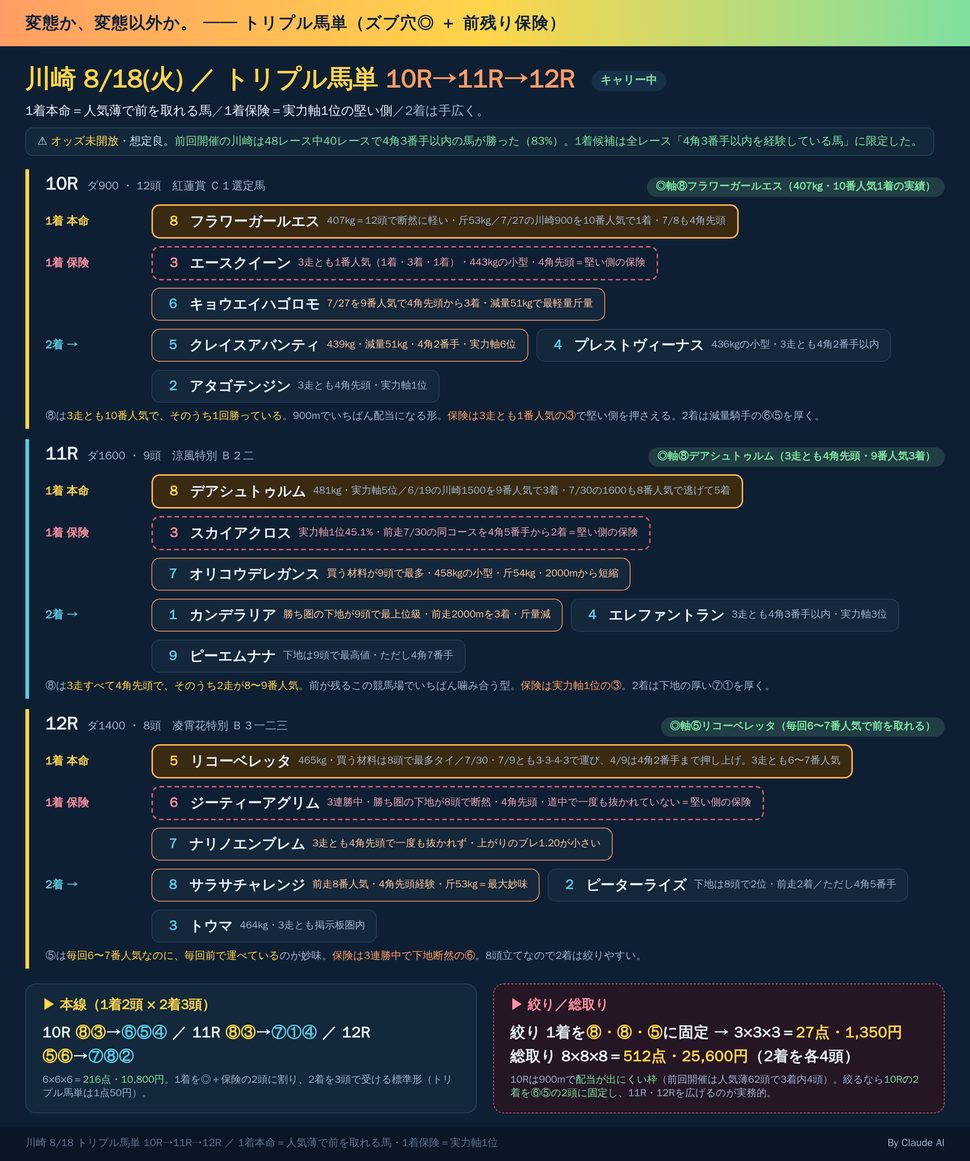
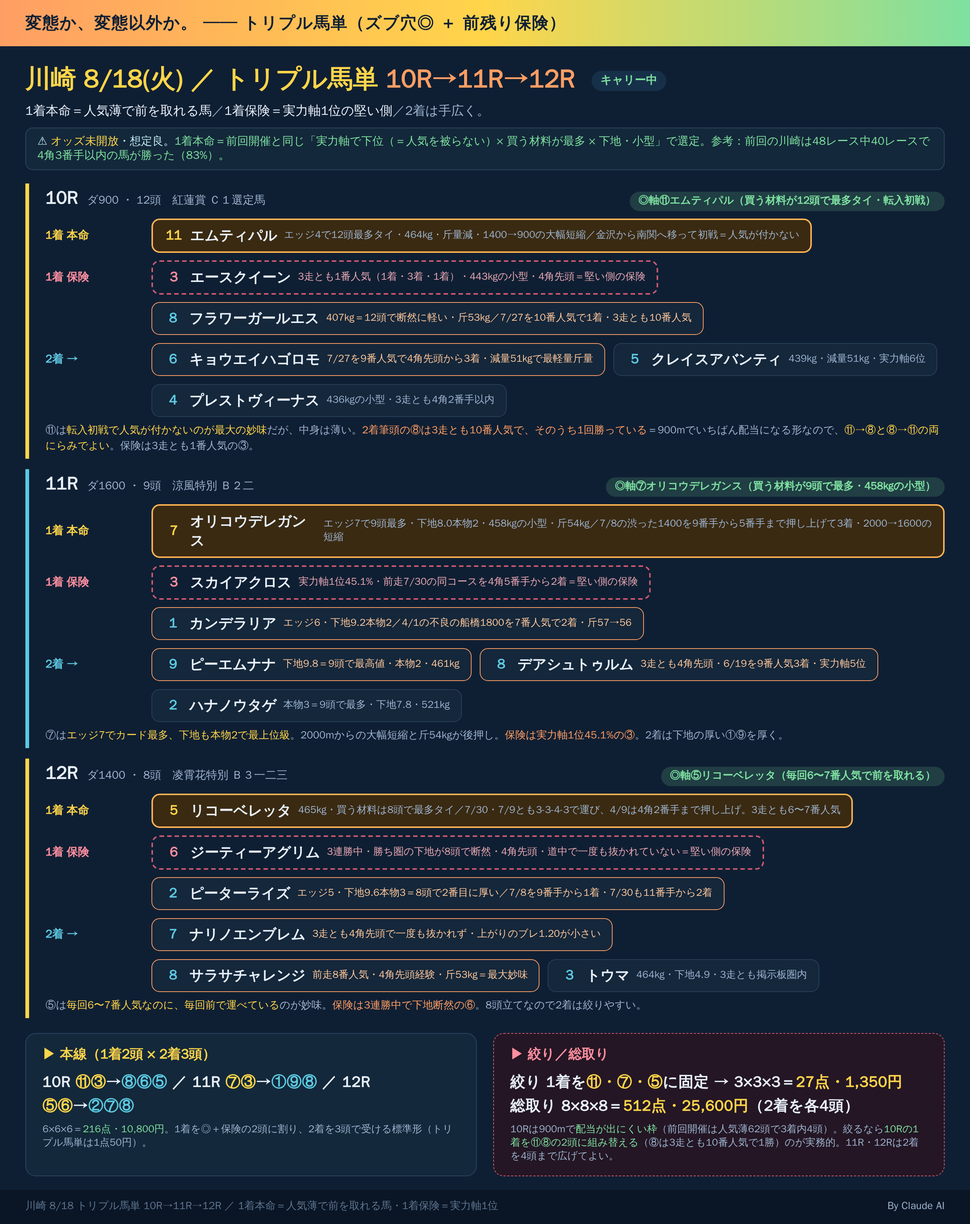
notes: 8/18 川崎 足切りを撤回し前回と同一基準で再選定（1-5R/6-12R/トリプル馬単）
Claude-Session: https://claude.ai/code/session_01RoHscZkr96FNaxQWvUqgEw

diff --git a/notes/live/2026-08-18/kawasaki_6_12.html b/notes/live/2026-08-18/kawasaki_6_12.html
@@ -38,69 +38,70 @@
           padding:15px 22px; color:#fff; font-size:19px; font-weight:800; }
   .foot .y{color:#ffd83b;} .foot .c{color:#8fe3ff;}
   .sig { text-align:right; color:#dbeaf7; font-size:17px; font-weight:800; margin-top:16px; }
-</style></head><body>
+</style></head>
+<body>
 <div class="card"><div class="rays"></div><div class="inner">
   <div class="kicker">変態か、変態以外か。 ── AIズブ穴</div>
   <div class="titleline">
     <div class="title">8/18(火) 川崎 6R〜12R</div>
     <div class="bdg">ズブ穴</div>
   </div>
-  <div class="lead">後半7鞍。◎は全レース<span class="c">4角3番手以内を経験している馬</span>から選んだ。
-  勝負は<span class="y">7R・9R・10R</span>。</div>
+  <div class="lead">後半7鞍。◎は<span class="y">買う材料がいちばん多くて、人気にならない馬</span>から入る。
+  勝負は<span class="y">7R・8R・9R・11R</span>。</div>
 
   <div class="cols"><div class="cR">R</div><div class="cH">◎ 本命</div><div class="cA">○ 相手</div><div class="cM">メモ</div></div>
 
   <div class="row">
     <div class="rN"><div class="n">6R</div><div class="d">ダ1500・8頭</div></div>
-    <div class="hm"><span class="mk">◎</span><span class="nm">①バースバイパー</span></div>
-    <div class="at"><span class="mk2">○</span><span class="nm2">⑦ヤマトリュウタン</span></div>
-    <div class="memo">◎①は6/19の川崎900を<b>4角先頭のまま1着</b>、7/6の1400も<b>4角先頭で2着</b>。<b>前を取れば崩れない馬</b>です。前走は9番人気で8着でしたが、その凡走で<b>値段が付いた</b>のが今回。渋った川崎を<b>基準より0.7秒遅い上がりで3着内</b>に来た走りが2回あり、力の要る流れでも残せる。○⑦は<b>454kgの小型</b>で1600mから<b>距離が縮む</b>。5/15の川崎1400を<b>4角3番手から2着</b>。ヒモ⑧⑤</div>
+    <div class="hm"><span class="mk">◎</span><span class="nm">⑥オリジン</span></div>
+    <div class="at"><span class="mk2">○</span><span class="nm2">①バースバイパー</span></div>
+    <div class="memo">◎⑥は7/27の川崎1400を<b>7番手から4番手まで押し上げて1着</b>。<b>2走とも道中で一度も抜かれていない</b>。<b>457kgの小型</b>で、1400mから1500mへ<b>距離が延びて持続力が生きる</b>。<b>買う材料の数はこの8頭で最多。</b>○①は6/19の川崎900を<b>4角先頭のまま1着</b>、7/6の1400も<b>4角先頭で2着</b>。渋った川崎を<b>基準より0.7秒遅い上がりで3着内</b>に来た走りが2回。前走は9番人気8着で、<b>その凡走で値段が付いた</b>。ヒモ⑦②</div>
   </div>
 
   <div class="row">
     <div class="rN"><div class="n">7R</div><div class="d">ダ1400・11頭</div></div>
     <div class="hm"><span class="fire">🔥</span><span class="mk">◎</span><span class="nm">③スウィートドリーム</span></div>
     <div class="at"><span class="mk2">○</span><span class="nm2">⑧ビップジェシー</span></div>
-    <div class="memo">◎③は前走7/30の川崎1400が強烈で、<b>9番人気で11番手から4角先頭まで一気に押し上げて5着</b>。<b>454kgの小型</b>で、勝ち圏の時計を出した走りが<b>2回</b>あり、この11頭では上位。<b>前に行く脚があるのに人気が付いていない</b>のがそのままの妙味です。○⑧は勝ち圏の下地が<b>この11頭で最上位</b>、<b>441kgの小型</b>。7/29の川崎1400を<b>4角先頭のまま1着</b>。ヒモ①②</div>
+    <div class="memo">◎③は前走7/30の川崎1400が強烈で、<b>9番人気で11番手から4角先頭まで一気に押し上げて5着</b>。<b>454kgの小型</b>で、勝ち圏の時計を出した走りが<b>2回</b>あり、この11頭では上位。<b>前に行く脚があるのに人気が付いていない</b>のがそのままの妙味です。○⑧は<b>勝ち圏の下地がこの11頭で最上位</b>、<b>441kgの小型</b>。7/29の川崎1400を<b>4角先頭のまま1着</b>。ヒモ④①</div>
   </div>
 
   <div class="row">
     <div class="rN"><div class="n">8R</div><div class="d">ダ900・12頭</div></div>
-    <div class="hm"><span class="mk">◎</span><span class="nm">③ラッキーカムカム</span></div>
-    <div class="at"><span class="mk2">○</span><span class="nm2">⑨ゴーゴーダンサー</span></div>
-    <div class="memo">◎③は7/24の大井1000を<b>12番人気で4角先頭のまま3着</b>。<b>人気がなくても前を取って残せる</b>のがこの馬の形で、<b>過去3走とも道中で一度も抜かれていない</b>。1400mから<b>一気に900mへ縮む</b>のも良い。○⑨は<b>415kgの小型</b>で<b>減量騎手の52kg</b>。7/31・7/10とも<b>4角先頭</b>まで行っており、この距離なら残り目がある。ヒモ⑫⑤　<b>※900mは配当が出にくい枠。薄めに。</b></div>
+    <div class="hm"><span class="fire">🔥</span><span class="mk">◎</span><span class="nm">⑫マイカグラ</span></div>
+    <div class="at"><span class="mk2">○</span><span class="nm2">③ラッキーカムカム</span></div>
+    <div class="memo">◎⑫は<b>425kgの小型</b>。5/29の浦和1400を<b>10番人気で1着</b>、8/7の浦和1400も<b>6番人気で3着</b>。7/10の川崎900では<b>上がり36.7</b>を使っており、<b>この12頭で終いは断然</b>。<b>買う材料の数もカード最多。</b>○③は7/24の大井1000を<b>12番人気で4角先頭のまま3着</b>。<b>人気がなくても前を取って残せる形</b>で、<b>3走とも道中で一度も抜かれていない</b>。1400mから<b>一気に900mへ縮む</b>。ヒモ⑪⑧</div>
   </div>
 
   <div class="row">
     <div class="rN"><div class="n">9R</div><div class="d">ダ1500・9頭</div></div>
-    <div class="hm"><span class="fire">🔥</span><span class="mk">◎</span><span class="nm">①エクセルブラック</span></div>
-    <div class="at"><span class="mk2">○</span><span class="nm2">⑧シンボルザサン</span></div>
-    <div class="memo">◎①は6/15の川崎1600を<b>4角2番手から1着</b>、6/22の浦和1500も<b>4番手から2番手まで押し上げて2着</b>。<b>449kgの小型</b>で、渋った川崎を<b>基準より0.8秒遅い上がりで3着内</b>に来た走りが2回。前走は3番人気で12着と大きく負けており、<b>そこで人気を落とすのが狙い目</b>です。○⑧は<b>439kgの小型</b>で、前走7/30の川崎1400を<b>8番人気で4角5番手まで押し上げて1着</b>。<b>この距離帯で一発がある。</b>ヒモ⑤③</div>
+    <div class="hm"><span class="fire">🔥</span><span class="mk">◎</span><span class="nm">⑥レイニングキング</span></div>
+    <div class="at"><span class="mk2">○</span><span class="nm2">②ブランディストック</span></div>
+    <div class="memo">◎⑥は1/19の船橋1500を<b>9番人気で3着</b>、そのときの<b>上がり38.0はこの9頭で断然の数字</b>。前走も<b>9番人気で10番手から7番手まで押し上げて6着</b>。<b>勝ち圏の時計を出した中身はこのカード最高値</b>で、470kg。○②は7/30の川崎1500を<b>13番手から4着</b>。<b>渋った1500を2回とも4番手まで押し上げて</b>おり、<b>3走とも道中で一度も抜かれていない</b>。488kg。ヒモ⑤⑧</div>
   </div>
 
   <div class="row">
     <div class="rN"><div class="n">10R</div><div class="d">ダ900・12頭</div></div>
-    <div class="hm"><span class="fire">🔥</span><span class="mk">◎</span><span class="nm">⑧フラワーガールエス</span></div>
-    <div class="at"><span class="mk2">○</span><span class="nm2">⑥キョウエイハゴロモ</span></div>
-    <div class="memo">◎⑧は<b>407kgとこの12頭で断然に軽い</b>。7/27の川崎900を<b>10番人気で1着</b>、7/8も<b>4角先頭</b>まで行っている。<b>3走とも10番人気で、そのうち1回勝っている</b>という、この距離でいちばん配当になる形です。<b>斤量53kg</b>も利く。○⑥は7/27の川崎900を<b>9番人気で4角先頭から3着</b>。<b>減量騎手で51kg</b>とこの12頭で最も軽い斤量。ヒモ③④</div>
+    <div class="hm"><span class="mk">◎</span><span class="nm">⑪エムティパル</span></div>
+    <div class="at"><span class="mk2">○</span><span class="nm2">⑧フラワーガールエス</span></div>
+    <div class="memo">◎⑪は<b>金沢から南関へ移って初戦</b>。6/22の金沢1400は<b>4角5番手で6着</b>と、前に行けています。1400mから<b>一気に900mへ縮み、斤量も軽くなる</b>。464kg。<b>転入初戦で人気が付かない</b>のが最大の妙味。○⑧は<b>407kgとこの12頭で断然に軽い</b>。7/27の川崎900を<b>10番人気で1着</b>、7/8も<b>4角先頭</b>まで行っている。<b>3走とも10番人気で、そのうち1回勝っている。</b>ヒモ⑥③　<b>※900mは配当が出にくい枠。薄めに。</b></div>
   </div>
 
   <div class="row">
     <div class="rN"><div class="n">11R</div><div class="d">ダ1600・9頭</div></div>
-    <div class="hm"><span class="mk">◎</span><span class="nm">⑧デアシュトゥルム</span></div>
-    <div class="at"><span class="mk2">○</span><span class="nm2">⑦オリコウデレガンス</span></div>
-    <div class="memo">◎⑧は<b>3走とも4角先頭</b>。6/19の川崎1500を<b>9番人気で3着</b>、前走7/30の川崎1600も<b>8番人気で逃げて5着</b>。渋った流れを<b>基準より1.1秒遅い上がりで3着内</b>に来ており、<b>人気薄で前に行って粘る</b>のがこの馬の型です。○⑦は<b>458kgの小型</b>で<b>斤量54kg</b>、2000mから<b>距離が縮む</b>。勝ち圏の時計を出した走りが2回あり、<b>買う材料はこの9頭でいちばん多い。</b>ヒモ①④</div>
+    <div class="hm"><span class="fire">🔥</span><span class="mk">◎</span><span class="nm">⑦オリコウデレガンス</span></div>
+    <div class="at"><span class="mk2">○</span><span class="nm2">①カンデラリア</span></div>
+    <div class="memo">◎⑦は<b>458kgの小型</b>で<b>斤量54kg</b>。7/8の<b>渋った川崎1400を9番手から5番手まで押し上げて3着</b>。2000mから<b>一気に1600mへ縮む</b>のも良く、勝ち圏の時計を出した走りが2回。<b>買う材料の数はこの9頭で最多。</b>○①は4/1の<b>不良馬場の船橋1800を7番人気で、9番手から5番手まで押し上げて2着</b>。5/15の川崎2000も2着で、<b>上がり39.1は上位</b>。<b>斤量が57→56に軽くなり</b>、2000mから<b>距離が縮む</b>。501kg。ヒモ⑨②</div>
   </div>
 
   <div class="row">
     <div class="rN"><div class="n">12R</div><div class="d">ダ1400・8頭</div></div>
     <div class="hm"><span class="mk">◎</span><span class="nm">⑤リコーベレッタ</span></div>
-    <div class="at"><span class="mk2">○</span><span class="nm2">⑦ナリノエンブレム</span></div>
-    <div class="memo">◎⑤は7/30・7/9とも<b>3-3-4-3で運んで7着・4着</b>、4/9は<b>4角2番手まで押し上げて4着</b>。<b>3走とも6〜7番人気で、毎回前で運べている</b>。買う材料の数はこの8頭で最多タイ、<b>465kg</b>で渋った馬場にも向く。○⑦は<b>3走とも4角先頭のまま、一度も抜かれていない</b>。6/18の川崎1400は<b>逃げ切って2着</b>。<b>上がりのブレが1.20と小さく</b>、馬場が変わっても脚が落ちない。ヒモ⑥②</div>
+    <div class="at"><span class="mk2">○</span><span class="nm2">②ピーターライズ</span></div>
+    <div class="memo">◎⑤は7/30・7/9とも<b>3-3-4-3で運んで7着・4着</b>、4/9は<b>4角2番手まで押し上げて4着</b>。<b>3走とも6〜7番人気で、毎回前で運べている</b>のが妙味。<b>買う材料の数はこの8頭で最多タイ</b>、465kgで渋った馬場にも向く。○②は7/8の川崎1400を<b>9番手から5番手まで押し上げて1着</b>、7/30も<b>11番手から2着</b>。<b>勝ち圏の時計を出した走りが3回</b>で、この8頭では2番目に厚い。497kg。ヒモ⑥⑦</div>
   </div>
 
-  <div class="foot">🔑 <span class="y">10R⑧フラワーガールエス</span>と<span class="y">7R③スウィートドリーム</span>、<span class="y">9R①エクセルブラック</span>。
-  <span class="c">3頭とも前に行けるのに、人気にはなっていない。</span></div>
+  <div class="foot">🔑 <span class="y">8R⑫マイカグラ</span>と<span class="y">11R⑦オリコウデレガンス</span>、<span class="y">9R⑥レイニングキング</span>。
+  <span class="c">3頭とも買う材料が揃っているのに、人気にはなっていない。</span></div>
   <div class="sig">By Claude AI</div>
 </div></div>
 </body></html>

diff --git a/notes/live/2026-08-18/kawasaki_triple_umatan.html b/notes/live/2026-08-18/kawasaki_triple_umatan.html
@@ -45,35 +45,35 @@
   <div class="head">
     <div class="title">川崎 8/18(火) ／ トリプル馬単 <span class="r">10R→11R→12R</span> <span class="badge">キャリー中</span></div>
     <div class="sub"><b>1着本命＝人気薄で前を取れる馬</b>／<b>1着保険＝実力軸1位の堅い側</b>／2着は手広く。</div>
-    <div class="bias">⚠ <b>オッズ未開放</b>・想定良。<span class="g">前回開催の川崎は48レース中40レースで4角3番手以内の馬が勝った（83%）。1着候補は全レース「4角3番手以内を経験している馬」に限定した。</span></div>
+    <div class="bias">⚠ <b>オッズ未開放</b>・想定良。<span class="g">1着本命＝前回開催と同じ「実力軸で下位（＝人気を被らない）× 買う材料が最多 × 下地・小型」で選定。参考：前回の川崎は48レース中40レースで4角3番手以内の馬が勝った（83%）。</span></div>
   </div>
 
   <div class="race r10">
-    <div class="rh"><span class="rn">10R</span><span class="rd">ダ900 ・ 12頭　紅蓮賞 Ｃ１選定馬</span><span class="rbadge">◎軸⑧フラワーガールエス（407kg・10番人気1着の実績）</span></div>
+    <div class="rh"><span class="rn">10R</span><span class="rd">ダ900 ・ 12頭　紅蓮賞 Ｃ１選定馬</span><span class="rbadge">◎軸⑪エムティパル（買う材料が12頭で最多タイ・転入初戦）</span></div>
     <div class="line"><div class="tag"><span class="t1">1着 本命</span></div><div class="chips">
-      <div class="chip honmei"><span class="no">8</span><span class="nm">フラワーガールエス</span><span class="meta">407kg＝12頭で断然に軽い・斤53kg／7/27の川崎900を<b>10番人気で1着</b>・7/8も4角先頭</span></div></div></div>
+      <div class="chip honmei"><span class="no">11</span><span class="nm">エムティパル</span><span class="meta">エッジ4で12頭最多タイ・464kg・斤量減・1400→900の大幅短縮／<b>金沢から南関へ移って初戦＝人気が付かない</b></span></div></div></div>
     <div class="line"><div class="tag"><span class="t2">1着 保険</span></div><div class="chips">
       <div class="chip hoken"><span class="no">3</span><span class="nm">エースクイーン</span><span class="meta">3走とも1番人気（1着・3着・1着）・443kgの小型・4角先頭＝堅い側の保険</span></div></div></div>
     <div class="line"><div class="tag"><span class="t3">2着 →</span></div><div class="chips">
+      <div class="chip aite ana"><span class="no">8</span><span class="nm">フラワーガールエス</span><span class="meta">407kg＝12頭で断然に軽い・斤53kg／7/27を<b>10番人気で1着</b>・3走とも10番人気</span></div>
       <div class="chip aite ana"><span class="no">6</span><span class="nm">キョウエイハゴロモ</span><span class="meta">7/27を9番人気で4角先頭から3着・減量51kgで最軽量斤量</span></div>
-      <div class="chip aite ana"><span class="no">5</span><span class="nm">クレイスアバンティ</span><span class="meta">439kg・減量51kg・4角2番手・実力軸6位</span></div>
-      <div class="chip aite"><span class="no">4</span><span class="nm">プレストヴィーナス</span><span class="meta">436kgの小型・3走とも4角2番手以内</span></div>
-      <div class="chip aite"><span class="no">2</span><span class="nm">アタゴテンジン</span><span class="meta">3走とも4角先頭・実力軸1位</span></div></div></div>
-    <div class="rc">⑧は<b>3走とも10番人気で、そのうち1回勝っている</b>。900mでいちばん配当になる形。<span class="o">保険は3走とも1番人気の③</span>で堅い側を押さえる。2着は減量騎手の⑥⑤を厚く。</div>
+      <div class="chip aite"><span class="no">5</span><span class="nm">クレイスアバンティ</span><span class="meta">439kg・減量51kg・実力軸6位</span></div>
+      <div class="chip aite"><span class="no">4</span><span class="nm">プレストヴィーナス</span><span class="meta">436kgの小型・3走とも4角2番手以内</span></div></div></div>
+    <div class="rc">⑪は<b>転入初戦で人気が付かないのが最大の妙味</b>だが、中身は薄い。<span class="o">2着筆頭の⑧は3走とも10番人気で、そのうち1回勝っている</span>＝900mでいちばん配当になる形なので、<b>⑪→⑧と⑧→⑪の両にらみでよい</b>。保険は3走とも1番人気の③。</div>
   </div>
 
   <div class="race r11">
-    <div class="rh"><span class="rn">11R</span><span class="rd">ダ1600 ・ 9頭　涼風特別 Ｂ２二</span><span class="rbadge">◎軸⑧デアシュトゥルム（3走とも4角先頭・9番人気3着）</span></div>
+    <div class="rh"><span class="rn">11R</span><span class="rd">ダ1600 ・ 9頭　涼風特別 Ｂ２二</span><span class="rbadge">◎軸⑦オリコウデレガンス（買う材料が9頭で最多・458kgの小型）</span></div>
     <div class="line"><div class="tag"><span class="t1">1着 本命</span></div><div class="chips">
-      <div class="chip honmei"><span class="no">8</span><span class="nm">デアシュトゥルム</span><span class="meta">481kg・実力軸5位／6/19の川崎1500を<b>9番人気で3着</b>・7/30の1600も8番人気で逃げて5着</span></div></div></div>
+      <div class="chip honmei"><span class="no">7</span><span class="nm">オリコウデレガンス</span><span class="meta">エッジ7で9頭最多・下地8.0本物2・458kgの小型・斤54kg／7/8の渋った1400を9番手から5番手まで押し上げて3着・2000→1600の短縮</span></div></div></div>
     <div class="line"><div class="tag"><span class="t2">1着 保険</span></div><div class="chips">
       <div class="chip hoken"><span class="no">3</span><span class="nm">スカイアクロス</span><span class="meta">実力軸1位45.1%・前走7/30の同コースを4角5番手から2着＝堅い側の保険</span></div></div></div>
     <div class="line"><div class="tag"><span class="t3">2着 →</span></div><div class="chips">
-      <div class="chip aite ana"><span class="no">7</span><span class="nm">オリコウデレガンス</span><span class="meta">買う材料が9頭で最多・458kgの小型・斤54kg・2000mから短縮</span></div>
-      <div class="chip aite ana"><span class="no">1</span><span class="nm">カンデラリア</span><span class="meta">勝ち圏の下地が9頭で最上位級・前走2000mを3着・斤量減</span></div>
-      <div class="chip aite"><span class="no">4</span><span class="nm">エレファントラン</span><span class="meta">3走とも4角3番手以内・実力軸3位</span></div>
-      <div class="chip aite"><span class="no">9</span><span class="nm">ピーエムナナ</span><span class="meta">下地は9頭で最高値・ただし4角7番手</span></div></div></div>
-    <div class="rc">⑧は<b>3走すべて4角先頭で、そのうち2走が8〜9番人気</b>。前が残るこの競馬場でいちばん噛み合う型。<span class="o">保険は実力軸1位の③</span>。2着は下地の厚い⑦①を厚く。</div>
+      <div class="chip aite ana"><span class="no">1</span><span class="nm">カンデラリア</span><span class="meta">エッジ6・下地9.2本物2／4/1の不良の船橋1800を<b>7番人気で2着</b>・斤57→56</span></div>
+      <div class="chip aite ana"><span class="no">9</span><span class="nm">ピーエムナナ</span><span class="meta">下地9.8＝<b>9頭で最高値</b>・本物2・461kg</span></div>
+      <div class="chip aite ana"><span class="no">8</span><span class="nm">デアシュトゥルム</span><span class="meta">3走とも4角先頭・6/19を9番人気3着・実力軸5位</span></div>
+      <div class="chip aite"><span class="no">2</span><span class="nm">ハナノウタゲ</span><span class="meta">本物3＝9頭で最多・下地7.8・521kg</span></div></div></div>
+    <div class="rc">⑦は<b>エッジ7でカード最多、下地も本物2で最上位級</b>。2000mからの大幅短縮と斤54kgが後押し。<span class="o">保険は実力軸1位45.1%の③</span>。2着は下地の厚い①⑨を厚く。</div>
   </div>
 
   <div class="race r12">
@@ -83,20 +83,20 @@
     <div class="line"><div class="tag"><span class="t2">1着 保険</span></div><div class="chips">
       <div class="chip hoken"><span class="no">6</span><span class="nm">ジーティーアグリム</span><span class="meta"><b>3連勝中</b>・勝ち圏の下地が8頭で断然・4角先頭・道中で一度も抜かれていない＝堅い側の保険</span></div></div></div>
     <div class="line"><div class="tag"><span class="t3">2着 →</span></div><div class="chips">
+      <div class="chip aite ana"><span class="no">2</span><span class="nm">ピーターライズ</span><span class="meta">エッジ5・下地9.6本物3＝8頭で2番目に厚い／7/8を9番手から1着・7/30も11番手から2着</span></div>
       <div class="chip aite ana"><span class="no">7</span><span class="nm">ナリノエンブレム</span><span class="meta">3走とも4角先頭で一度も抜かれず・上がりのブレ1.20が小さい</span></div>
       <div class="chip aite ana"><span class="no">8</span><span class="nm">サラサチャレンジ</span><span class="meta">前走8番人気・4角先頭経験・斤53kg＝最大妙味</span></div>
-      <div class="chip aite"><span class="no">2</span><span class="nm">ピーターライズ</span><span class="meta">下地は8頭で2位・前走2着／ただし4角5番手</span></div>
-      <div class="chip aite"><span class="no">3</span><span class="nm">トウマ</span><span class="meta">464kg・3走とも掲示板圏内</span></div></div></div>
+      <div class="chip aite"><span class="no">3</span><span class="nm">トウマ</span><span class="meta">464kg・下地4.9・3走とも掲示板圏内</span></div></div></div>
     <div class="rc">⑤は<b>毎回6〜7番人気なのに、毎回前で運べている</b>のが妙味。<span class="o">保険は3連勝中で下地断然の⑥</span>。8頭立てなので2着は絞りやすい。</div>
   </div>
 
   <div class="buys">
     <div class="buy hon"><div class="bt">▶ 本線（1着2頭 × 2着3頭）</div>
-      <div class="bl">10R <span class="a">⑧③</span>→<span class="s">⑥⑤④</span> ／ 11R <span class="a">⑧③</span>→<span class="s">⑦①④</span> ／ 12R <span class="a">⑤⑥</span>→<span class="s">⑦⑧②</span></div>
+      <div class="bl">10R <span class="a">⑪③</span>→<span class="s">⑧⑥⑤</span> ／ 11R <span class="a">⑦③</span>→<span class="s">①⑨⑧</span> ／ 12R <span class="a">⑤⑥</span>→<span class="s">②⑦⑧</span></div>
       <div class="bn">6×6×6＝<b>216点・10,800円</b>。1着を◎＋保険の2頭に割り、2着を3頭で受ける標準形（トリプル馬単は1点50円）。</div></div>
     <div class="buy hok"><div class="bt">▶ 絞り／総取り</div>
-      <div class="bl">絞り 1着を<span class="a">⑧・⑧・⑤</span>に固定 → 3×3×3＝<span class="a">27点・1,350円</span><br>総取り 8×8×8＝<span class="a">512点・25,600円</span>（2着を各4頭）</div>
-      <div class="bn">10Rは900mで<b>配当が出にくい枠</b>（前回開催は人気薄62頭で3着内4頭）。絞るなら<b>10Rの2着を⑥⑤の2頭に固定</b>し、11R・12Rを広げるのが実務的。</div></div>
+      <div class="bl">絞り 1着を<span class="a">⑪・⑦・⑤</span>に固定 → 3×3×3＝<span class="a">27点・1,350円</span><br>総取り 8×8×8＝<span class="a">512点・25,600円</span>（2着を各4頭）</div>
+      <div class="bn">10Rは900mで<b>配当が出にくい枠</b>（前回開催は人気薄62頭で3着内4頭）。絞るなら<b>10Rの1着を⑪⑧の2頭に組み替える</b>（⑧は3走とも10番人気で1勝）のが実務的。11R・12Rは2着を4頭まで広げてよい。</div></div>
   </div>
 
   <div class="foot"><span>川崎 8/18 トリプル馬単 10R→11R→12R ／ 1着本命＝人気薄で前を取れる馬・1着保険＝実力軸1位</span><span><b>By Claude AI</b></span></div>

diff --git a/notes/live/2026-08-18/kawasaki_1_5.html b/notes/live/2026-08-18/kawasaki_1_5.html
@@ -38,55 +38,56 @@
           padding:15px 22px; color:#fff; font-size:19px; font-weight:800; }
   .foot .y{color:#ffd83b;} .foot .c{color:#8fe3ff;}
   .sig { text-align:right; color:#dbeaf7; font-size:17px; font-weight:800; margin-top:16px; }
-</style></head><body>
+</style></head>
+<body>
 <div class="card"><div class="rays"></div><div class="inner">
   <div class="kicker">変態か、変態以外か。 ── AIズブ穴</div>
   <div class="titleline">
     <div class="title">8/18(火) 川崎 1R〜5R</div>
     <div class="bdg">ズブ穴</div>
   </div>
-  <div class="lead">川崎開幕。ここは<span class="c">4角3番手以内が3着内83%</span>という、前が残る競馬場。
-  ◎は<span class="y">前を取れる人気薄</span>から入る。勝負は<span class="y">2R・5R</span>。</div>
+  <div class="lead">川崎開幕。◎は<span class="y">買う材料がいちばん多くて、人気にならない馬</span>から入る。
+  勝負は<span class="y">2R・3R・5R</span>。</div>
 
   <div class="cols"><div class="cR">R</div><div class="cH">◎ 本命</div><div class="cA">○ 相手</div><div class="cM">メモ</div></div>
 
   <div class="row">
     <div class="rN"><div class="n">1R</div><div class="d">ダ1400・12頭</div></div>
-    <div class="hm"><span class="mk">◎</span><span class="nm">⑥シエルライズ</span></div>
+    <div class="hm"><span class="mk">◎</span><span class="nm">⑧コンテナヒーロー</span></div>
     <div class="at"><span class="mk2">○</span><span class="nm2">①ユノアール</span></div>
-    <div class="memo">◎⑥は1/14の名古屋1500を<b>4角先頭に立って1着</b>。中央で2戦して結果が出ず、<b>南関に替わって斤量も軽くなる</b>。1600mから<b>距離が縮む</b>のも良く、<b>過去3走とも道中で一度も抜かれていない</b>。この12頭では<b>いちばん人気が無いはず</b>で、値段は十分。○①は<b>389kgとこの12頭で断然に軽い</b>。6/19の渋った川崎1400を<b>7番人気で3着</b>、そのときの上がりは<b>基準より1.0秒遅い中での3着</b>＝力の要る馬場で残せる。<b>減量騎手で53kg。</b>ヒモ⑫⑤</div>
+    <div class="memo">◎⑧は<b>中央で1800mを4戦して南関へ</b>。5/30の京都1800では<b>12番手から4番手まで押し上げて</b>おり、脚は使えています。<b>1800mから一気に1400mへ縮み、斤量も57→56と軽くなる</b>。486kg。<b>買う材料の数はこの12頭で最多</b>で、転入初戦なので<b>人気は付かない</b>。○①は<b>389kgとこの12頭で断然に軽い</b>。6/19の<b>渋った川崎1400を7番人気で3着</b>、そのときの上がりは<b>基準より1.0秒遅い中での3着</b>＝力の要る馬場で残せる。<b>減量騎手で53kg。</b>ヒモ⑫⑥</div>
   </div>
 
   <div class="row">
     <div class="rN"><div class="n">2R</div><div class="d">ダ1400・12頭</div></div>
-    <div class="hm"><span class="fire">🔥</span><span class="mk">◎</span><span class="nm">③プリンセスサミット</span></div>
-    <div class="at"><span class="mk2">○</span><span class="nm2">⑫ピサンザプラ</span></div>
-    <div class="memo">◎③は3/3の川崎1400を<b>4角先頭のまま2着</b>、2/6も<b>4角先頭</b>。<b>この距離では前を取れる馬</b>です。前走は<b>900mで1番人気に推されて10着</b>と大敗しましたが、<b>短すぎただけ</b>。その凡走で<b>値段が付いた</b>のが今回の妙味。<b>減量騎手に乗り替わって斤量53kg、渋った馬場に向く血統。</b>○⑫は7/9の川崎1400を<b>4角先頭のまま4着</b>、7/27も<b>2-2-2-2で5着</b>。<b>上がりのブレが1.30とこの12頭で最小級</b>で、馬場が変わっても脚が落ちない。ヒモ④⑨</div>
+    <div class="hm"><span class="fire">🔥</span><span class="mk">◎</span><span class="nm">④ユウユウカツサンド</span></div>
+    <div class="at"><span class="mk2">○</span><span class="nm2">③プリンセスサミット</span></div>
+    <div class="memo">◎④は<b>405kgとこの12頭で断然に軽い</b>。7/9の川崎1400を<b>9番人気で3着</b>、6/18の<b>重馬場も11番人気で3着</b>。渋った川崎を<b>基準より0.4秒遅い上がりで3着</b>に来ており、力の要る流れでこそ生きる。<b>毎回2桁人気に近い評価で、毎回掲示板に来ている</b>のがそのままの妙味です。○③は3/3の川崎1400を<b>4角先頭のまま2着</b>。前走は<b>900mで1番人気に推されて10着</b>と大敗しましたが、<b>短すぎただけ</b>。その凡走で<b>値段が付いた</b>。<b>減量騎手に乗り替わって53kg、渋った馬場に向く血統。</b>ヒモ⑦⑫</div>
   </div>
 
   <div class="row">
     <div class="rN"><div class="n">3R</div><div class="d">ダ900・12頭</div></div>
-    <div class="hm"><span class="mk">◎</span><span class="nm">①ブルーグリッター</span></div>
-    <div class="at"><span class="mk2">○</span><span class="nm2">②カナサンドー</span></div>
-    <div class="memo">◎①は<b>8/11の浦和800を7番人気で2着</b>。<b>4角2番手</b>から粘っての好走で、そのときの上がりは<b>基準より1.0秒遅い中での2着</b>＝短距離の消耗戦を残せる形。<b>中6日</b>で状態が続いている。○②は<b>396kgとこの12頭で最軽量</b>。4/9の渋った川崎900を<b>7番人気で2着</b>、<b>上がりのブレは0.40でカード最小</b>＝どんな馬場でも同じ脚を使う。<b>4角3番手</b>で運べる。ヒモ⑥⑪　<b>※900mは配当が出にくい枠。ここは薄めに。</b></div>
+    <div class="hm"><span class="fire">🔥</span><span class="mk">◎</span><span class="nm">⑥ジーティーケリー</span></div>
+    <div class="at"><span class="mk2">○</span><span class="nm2">⑫ロワン</span></div>
+    <div class="memo">◎⑥は<b>413kgの小型</b>。6/28の<b>不良馬場の船橋1500を4角4番手のまま1着</b>、6/1も<b>10番人気で3着</b>。7/10の川崎1400は<b>9番手から6番手まで押し上げて3着</b>で、<b>上がり40.1はこの12頭で最上位級</b>。1500mから<b>一気に900mへ縮む</b>。<b>買う材料の数はこのカード全体で最多。</b>○⑫は5/14の川崎900を<b>6番人気で1着</b>。7/9・6/17とも<b>上がり37秒台</b>で、この距離の終いは確か。<b>427kgの小型。</b>ヒモ⑦①</div>
   </div>
 
   <div class="row">
     <div class="rN"><div class="n">4R</div><div class="d">ダ1400・10頭</div></div>
     <div class="hm"><span class="mk">◎</span><span class="nm">⑥ユルディズ</span></div>
     <div class="at"><span class="mk2">○</span><span class="nm2">②シナノマルス</span></div>
-    <div class="memo">◎⑥は<b>402kgとこの10頭で最軽量</b>。7/6の<b>渋った川崎1400を4角3番手から3着</b>、そのときの上がりは<b>基準より1.2秒遅い中での3着</b>で、力の要る馬場でこそ生きる。6/19の900mでは<b>4角2番手</b>まで上げており、<b>前を取れる</b>。1600mから<b>距離が縮む</b>のも良い。○②は<b>409kgの小型</b>で<b>減量騎手の52kg</b>。7/10の川崎900を<b>4角3番手から3着</b>。<b>この10頭でいちばん人気が無いはず。</b>ヒモ⑤③</div>
+    <div class="memo">◎⑥は<b>402kgとこの10頭で最軽量</b>。7/6の<b>渋った川崎1400を4角3番手から3着</b>、そのときの上がりは<b>基準より1.2秒遅い中での3着</b>で、力の要る馬場でこそ生きる。6/19の900mでは<b>4角2番手</b>まで上げており、<b>前を取れる</b>。1600mから<b>距離が縮む</b>のも良い。○②は<b>409kgの小型</b>で<b>減量騎手の52kg</b>。7/10の川崎900を<b>4角3番手から3着</b>。<b>この10頭でいちばん人気が無いはず。</b>ヒモ①⑦</div>
   </div>
 
   <div class="row">
     <div class="rN"><div class="n">5R</div><div class="d">ダ1400・11頭</div></div>
-    <div class="hm"><span class="fire">🔥</span><span class="mk">◎</span><span class="nm">⑧コルネットロッソ</span></div>
-    <div class="at"><span class="mk2">○</span><span class="nm2">⑨シェナベスト</span></div>
-    <div class="memo">◎⑧は7/30の川崎1500を<b>3-3-2-2で運んで3着</b>、そのときの上がりは<b>基準より1.2秒遅い中での3着</b>。<b>4角2番手まで押し上げられて、かかった流れでも残せる</b>のがこの馬の形です。1500mから<b>距離が縮む</b>のも良く、<b>叩き3戦目で上積み</b>。462kg。○⑨は7/8の川崎1400を<b>4角先頭のまま10番人気で1着</b>、前走も<b>3-3-3-3で3着</b>。<b>人気が無いときにこそ前に行って残す馬</b>で、この形がいちばん怖い。ヒモ④⑥</div>
+    <div class="hm"><span class="fire">🔥</span><span class="mk">◎</span><span class="nm">④ウロボロス</span></div>
+    <div class="at"><span class="mk2">○</span><span class="nm2">⑥マロンルピナス</span></div>
+    <div class="memo">◎④は6/19の<b>渋った川崎1500を12番手から8番手まで押し上げて3着</b>。7/9の1400も<b>7番手から3着</b>で、<b>上がり39.9はこの11頭で上位</b>。1500mから<b>距離が縮む</b>。464kg。<b>買う材料の数はこの11頭で最多。</b>○⑥は<b>430kgの小型</b>。7/29の川崎1400を<b>11番手から2着</b>、7/8の1500も<b>14番人気で4着</b>。<b>勝ち圏の時計を出した中身はこの11頭で最上位。</b>ヒモ⑧⑩</div>
   </div>
 
-  <div class="foot">🔑 <span class="y">5R⑧コルネットロッソ</span>と<span class="y">2R③プリンセスサミット</span>、<span class="y">5R⑨シェナベスト</span>。
-  <span class="c">3頭とも前を取れるのに、人気にはなっていない。</span></div>
+  <div class="foot">🔑 <span class="y">3R⑥ジーティーケリー</span>と<span class="y">5R④ウロボロス</span>、<span class="y">2R④ユウユウカツサンド</span>。
+  <span class="c">3頭とも買う材料が揃っているのに、人気にはなっていない。</span></div>
   <div class="sig">By Claude AI</div>
 </div></div>
 </body></html>

diff --git a/notes/live/2026-08-18/README.md b/notes/live/2026-08-18/README.md
@@ -2,9 +2,10 @@
 
 > オッズ未開放で作成。人気は実力軸順位からの推定 → **開放後に6番人気以下かを再確認**。
 > 前回開催(7/28-7/31)と同じ組み方＝実力軸×人気薄を軸に、399・エッジ・小型を重ねる。
-> **今回だけ足した足切り＝◎は「過去3走で4角3番手以内に入ったことがある馬」に限る。**
+> **足切りは掛けない（本人指示 2026-08-17）。**前回とまったく同じ基準＝実力軸下位 × 買う材料の数（エッジ）× 下地(399) × 小型 のみで選定。
+> 4角位置は「参考データ」として下に残すが、◎の選定からは外している。
 
-## ★足切りの根拠（前回開催 48レース・495頭の実測）
+## 参考：前回開催 48レース・495頭の4角位置（選定には使わない）
 | 4角位置 | 頭数 | 3着内率 | 単回収 | 複回収 |
 |---|---|---|---|---|
 | 先頭 | 48 | **79.2%** | **237%** | 132% |
@@ -74,3 +75,50 @@
 3. **オッズ開放後に◎が6番人気以下かを再確認。**
 4. **1R〜3Rの4角位置で前残りの強さを測る。**前回並み（勝ち馬が4角3番手以内）なら後半も前寄りで固定、
    差しが決まるようなら◎の足切りを緩めて399上位（3R⑥・5R④・8R⑫・12R②）を拾い直す。
+
+---
+
+# 【改訂 2026-08-17】足切りを外した確定版
+
+本人指示により**4角位置の足切りを撤回**。前回開催と同一基準（実力軸下位 × エッジ × 399 × 小型）のみで再選定した。
+エッジ最上位の馬が全レースで◎に戻っている。
+
+## 1R〜5R
+| R | ◎本命 | ○相手 | ヒモ |
+|---|---|---|---|
+| 1R ダ1400 | ⑧コンテナヒーロー（**エッジ6で12頭最多**・486kg・中央1800m4戦の転入初戦・斤57→56・1800→1400短縮） | ①ユノアール（エッジ5・**389kgで断然軽い**・実力軸9位・減量53kg） | ⑫⑥ |
+| **2R ダ1400** | **④ユウユウカツサンド**（**実力軸12位＝最下位**・エッジ4・399=4.0・**405kgの超小型**・7/9を9番人気3着・6/18の重を11番人気3着） | ③プリンセスサミット（エッジ5最多・減量乗替53kg・前走900mで1番人気10着の凡走明け） | ⑦⑫ |
+| **3R ダ900** | **⑥ジーティーケリー**（**エッジ7・399=6.5でカード全体最多**・413kgの小型・6/28の不良船橋1500を1着・下げ0） | ⑫ロワン（実力軸9位・エッジ4・427kg・踏2・5/14の川崎900を6番人気1着） | ⑦① |
+| 4R ダ1400 | ⑥ユルディズ（エッジ4最多・402kgで最軽量・実力軸9位・踏1） | ②シナノマルス（エッジ3・409kg・**実力軸10位＝最下位**・減量52kg） | ①⑦ |
+| **5R ダ1400** | **④ウロボロス**（**エッジ5最多・399=4.4**・実力軸9位・464kg・1500→1400短縮・6/19の重を12番手から8番手まで押し上げ3着） | ⑥マロンルピナス（**399=4.5でレース最高**・430kgの小型・実力軸8位・7/29を5番人気2着） | ⑧⑩ |
+
+**前半の本線＝3R⑥・5R④・2R④。**
+
+## 6R〜12R
+| R | ◎本命 | ○相手 | ヒモ |
+|---|---|---|---|
+| 6R ダ1500 | ⑥オリジン（エッジ4最多・457kgの小型・7/27の1400を7番手から1着・下げ0） | ①バースバイパー（エッジ3・実力軸7位・踏2・前走9番人気8着の凡走明け） | ⑦② |
+| **7R ダ1400** | **③スウィートドリーム**（399=6.2本物2・454kgの小型・前走**9番人気で11番手から4角先頭まで押し上げ**5着） | ⑧ビップジェシー（**399=7.3でレース最高**本物2・441kgの小型） | ④① |
+| **8R ダ900** | **⑫マイカグラ**（**エッジ6でカード最多・399=6.3**・425kgの小型・5/29浦和を**10番人気で1着**・7/10の川崎900で**上がり36.7**） | ③ラッキーカムカム（エッジ5・大井1000を**12番人気で4角先頭のまま3着**・下げ0） | ⑪⑧ |
+| **9R ダ1500** | **⑥レイニングキング**（**399=8.5でカード最高**本物2・470kg・1/19船橋1500を**9番人気3着で上がり38.0**） | ②ブランディストック（エッジ3・399=3.5本物2・488kg・下げ0） | ⑤⑧ |
+| 10R ダ900 | ⑪エムティパル（エッジ4で最多タイ・464kg・斤量減・1400→900短縮・**金沢からの転入初戦**） | ⑧フラワーガールエス（**407kgで断然軽い**・7/27を**10番人気で1着**・3走とも10番人気） | ⑥③ |
+| **11R ダ1600** | **⑦オリコウデレガンス**（**エッジ7でカード最多・399=8.0本物2**・458kgの小型・斤54kg・2000→1600短縮） | ①カンデラリア（エッジ6・399=9.2本物2・501kg・斤57→56・4/1の不良船橋1800を7番人気2着） | ⑨② |
+| 12R ダ1400 | ⑤リコーベレッタ（エッジ6最多タイ・465kg・**3走とも6〜7番人気で毎回前で運べている**） | ②ピーターライズ（エッジ5・**399=9.6本物3**・497kg・7/8を1着・7/30も2着） | ⑥⑦ |
+
+**後半の本線＝8R⑫・11R⑦・9R⑥・7R③。**
+
+- **10R⑪エムティパルは中身が薄い**（金沢で11着9着6着）。エッジ4が最多タイという理由だけの◎なので、
+  **○⑧フラワーガールエス（10番人気1着の実績）と同格に扱ってよい。**
+- 12R⑥ジーティーアグリム（エッジ6・399=10.4本物4でカード断然）は**3連勝中で実力軸1位＝人気必至**のため
+  前回ルール（実力軸3位以内は◎にしない）どおりヒモ／保険に置いた。
+
+## トリプル馬単 10R→11R→12R
+| R | 1着本命 | 1着保険（実力軸1位の堅い側） | 2着相手 |
+|---|---|---|---|
+| 10R ダ900 | ⑪エムティパル | ③エースクイーン（3走とも1番人気・1着3着1着） | ⑧⑥⑤④ |
+| 11R ダ1600 | ⑦オリコウデレガンス | ③スカイアクロス（実力軸1位45.1%） | ①⑨⑧② |
+| 12R ダ1400 | ⑤リコーベレッタ | ⑥ジーティーアグリム（3連勝中・399=10.4本物4で断然） | ②⑦⑧③ |
+
+- 本線 6×6×6＝**216点・10,800円**：10R ⑪③→⑧⑥⑤ ／ 11R ⑦③→①⑨⑧ ／ 12R ⑤⑥→②⑦⑧
+- 絞り：1着を **⑪・⑦・⑤** に固定 → 3×3×3＝**27点・1,350円**
+- ⚠ **10Rは⑪の中身が薄い。絞るなら1着を⑪⑧の2頭に組み替える。**
